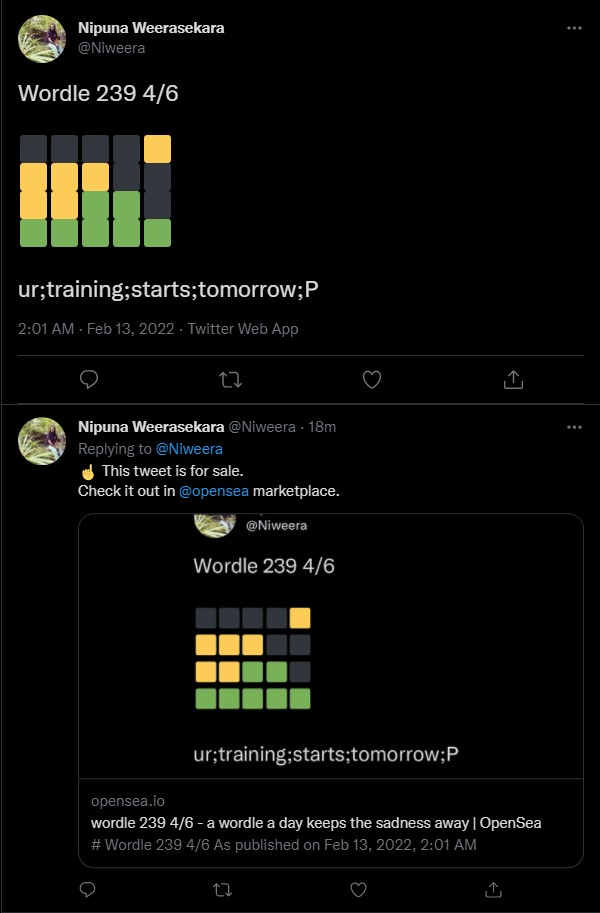
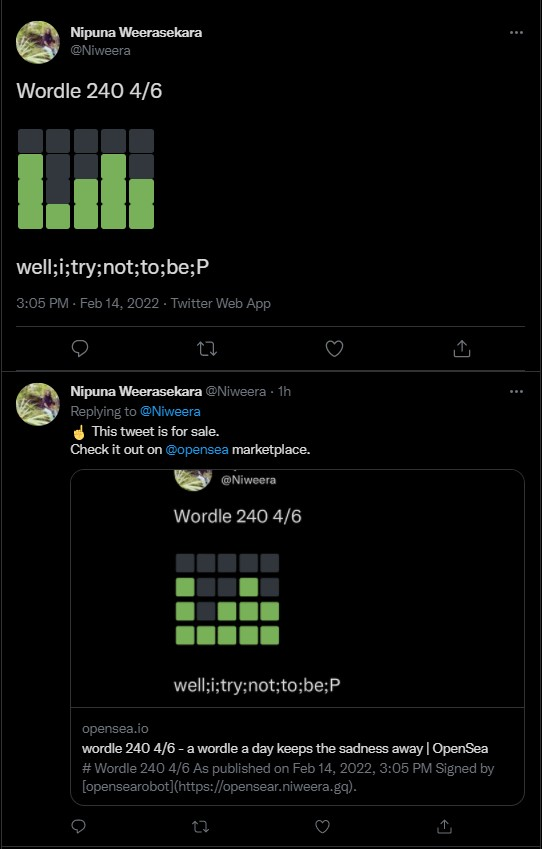
Update README because sometimes I make grammar mistakes.

diff --git a/README.md b/README.md
@@ -41,11 +41,11 @@ $ pm2 start --name "opensearobot" npm -- run worker
 
 ## OpenSear in action
 
-### On [OpenSea.io marketplace](https://opensea.io/assets/matic/0x2953399124f0cbb46d2cbacd8a89cf0599974963/3174924704537354725776608230933781217533108654819823768175757862932559429633)
+### On [OpenSea.io marketplace](https://opensea.io/assets/matic/0x2953399124f0cbb46d2cbacd8a89cf0599974963/3174924704537354725776608230933781217533108654819823768175757884922791985153)
 
 ![image](./assets/nft.jpg)
 
-### On [Twitter](https://twitter.com/Niweera/status/1492597351089045505)
+### On [Twitter](https://twitter.com/Niweera/status/1493156992588062721)
 
 ![image](./assets/tweet.jpg)
 
